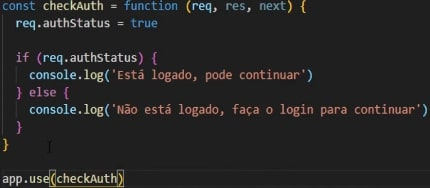
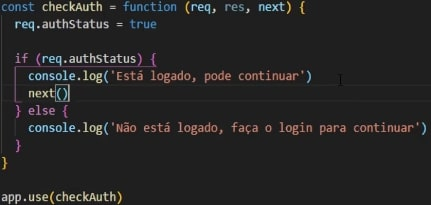
finalizando básico express

Changed region(s): [[0.0, 0.0798, 0.9977, 0.8245], [0.0, 0.0, 0.7256, 0.0798], [0.0, 0.8777, 0.3023, 1.0]]

diff --git a/pages/back-end/express.html b/pages/back-end/express.html
@@ -36,8 +36,31 @@
         <img src="../../img/express/nodemon.jpg" alt="">
         <h2> MiddleWares </h2>
         <p> É mais um conceito que junto as rotas, estarão presente o tempo inteior quando trabalhamos com NodeJS. Middlewares são códigos que podem ser executos no meio/entre alguma ação e outra. Um exemplo prático é verificar se o usuário está logado. Por exemplo, um usuário tenta acessar uma rota em específico na qual apenas usuários autênticados possuem acesso. Nesse momento colocamos um middleware(algo que será executado entre a req do usuário e a res) e aqui se vermos que ele está logado prossegue e se não tiver, vá embora. </p>
-        <p> O método que nos da acesso a utilizar middlewares no express é o Use. Futuramente iremos aprender a utilizar os middlawares para rotas individualmente. Abaixo segue um exemplo de um middleware simples funcionando para toda a aplicação: </p>
+        <p> O método que nos da acesso a utilizar middlewares no express é o Use. Futuramente iremos aprender a utilizar os middlawares para rotas individualmente, o que trará mais sentido, pois na maioria das vezes iremos querer ver se o usuário está logado por exemplo em apenas algumas das rotas e em outras não, mas fica para o futuro. Abaixo segue um exemplo de um middleware simples funcionando para toda a aplicação: </p>
         <img src="../../img/express/middl.jpg" alt="">
+        <p> Vale ressaltar que os middlewares sempre precisarão utilizar o método NEXT como mostrado acima, para assim que ele realizar sua função seja ela qual for, ele redirecionar para o next(Seuginte). </p>
+        <h2> Parâmetros via URL.</h2>
+        <p> Ao falarmos de requisições, elas podem enviar dados que podem vir básicamente pelo método GET ou pelo método POST. Devido a isso, podemos resgatar os parâmetros da URL por meio do REQ. Acessamos req.params.nome onde o nome deve ser o que está definido na URL do Express. Dessa forma por exemplo, fica dessa forma: /users:id por exemplo. Neste caso , estaríamos buscando o usuário no banco de dados pelo ID. </p>
+        <p> No exemplo abaixo mostramos uma rota que recebe um ID por parâmetro da URL e atribuimos esse id para uma variável. Em seguida, poderemos fazer qualquer coisa com essa informação como por exemplo uma consulta no banco de dados onde ele irá retornar o usuário com o id em questão. </p>
+        <img src="../../img/express/params.jpg" alt="">
+        <h2> Parâmetros via POST</h2>
+        <p> Post é quando enviamos algo através de um usuário, geralmente na intenção de inserir informações em algum banco de dados. Para enviar os dados é necessário criar um form e enviar os dados via POST. No express é necessário colocar alguns midwares como o express.json, para ler os dados do body. E também uma rota qeu vai receber estes dados, utilizando o método post do express.  Básicamente o fluxo é : O usuário preenche o form e envia. O servidor(Express), recebe a solicitação para a rota desejada, o middleware entra no meio e trata os dados e em seguida redireciona para a rota para enfim realizar a ação necessária.</p>
+        <p> Quando recebemos os dados via POST, </p>
+        <img src="../../img/express/post.jpg" alt="">
+        <h2> Módulos de Rotas: </h2>
+        <p> É possível unir várias rotas em um módulo, isso vai deixar nosso código mais organizado. Muitas vezes iremos ter diversas rotas para diversas entidades, como usuário, produtos, compras, e isso acaba deixando a aplicação bagunçada e ilegível. Para isso normalmente é criado uma pasta para cada entidade em comum, como users por exemplo. Dentro da pasta User criamos um arquivo index.js onde criaremos as rotas dos users. Para isso vamos utilizar um novo objeto chamado Router. Depois precisamos exporta-lo e importa-lo no arquivo principal.  </p>
+        <p> No arquivo index dentro da pasta Router, fica assim:</p>
+        <img src="../../img/express/userRout.jpg" alt="">
+        <p> Lembrar que no final precisa exportar <span>module.exports = router</span></p>
+        <p> E dentro da aplicação principal, é preciso importar esse Router exportado: </p>
+        <p style="color: red;"> falta fazer</p>
+        <h2> Css com Express </h2>
+        <p> Para inserir CSS nas páginas e arquivos estáticas vamos precisar de um middleware, que é o express.static. Precisamos colocar um diretório base, que normalmente é o public e em seguida criar os estáticos a partir desta pasta. No html podemos acessar o caminho relativo após a pasta estar definida e pronto. Linha para colocar no App principal:  </p>
+        <img src="../../img/express/cssjs.jpg" alt="">
+        <h2> Pag 404</h2>
+        <p> Em todo projeto é necessário criar uma página 404 em caso de o usuário digitar um URL não existente ou qualqeur outro tipo de erro. Ela é usada quando o usuário tenta logar em uma página não encontrada. Basta criar um novo middleware abaixo de todas as rotas, que responde com este status, e enviar um arquivo de template diferente a esta página. Veremos na prática:</p>
+        <img src="../../img/express/404.jpg" alt="">
+        
     </main>
 </body>
 </html>
